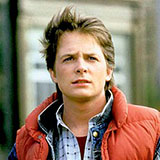
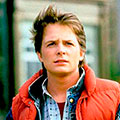
updated mcfly

diff --git a/www/modules/home/modules/members/views/members-view.html b/www/modules/home/modules/members/views/members-view.html
@@ -20,7 +20,7 @@
           <div class="item my-item"
              ng-repeat="member in members"
              ng-click="show()">
-              <img src="../img/mcfly.png">
+              <img src="../img/mcfly.jpg">
               <h2>{{member.name}}</h2>
               <p>{{member.id}}</p>
           </div>

diff --git a/www/js/bundle.js b/www/js/bundle.js
@@ -631,7 +631,7 @@ module.exports = {
     "more":{
         "title":"More",
         "optionstitle":"Select an option",
-        "option1":"Reportes",
+        "option1":"Reports",
         "option2":"KPI's (Summary)",
         "option3":"Trends",
         "option4":"Notifications",

diff --git a/www/modules/translations/en-US.js b/www/modules/translations/en-US.js
@@ -145,7 +145,7 @@ module.exports = {
     "more":{
         "title":"More",
         "optionstitle":"Select an option",
-        "option1":"Reportes",
+        "option1":"Reports",
         "option2":"KPI's (Summary)",
         "option3":"Trends",
         "option4":"Notifications",
